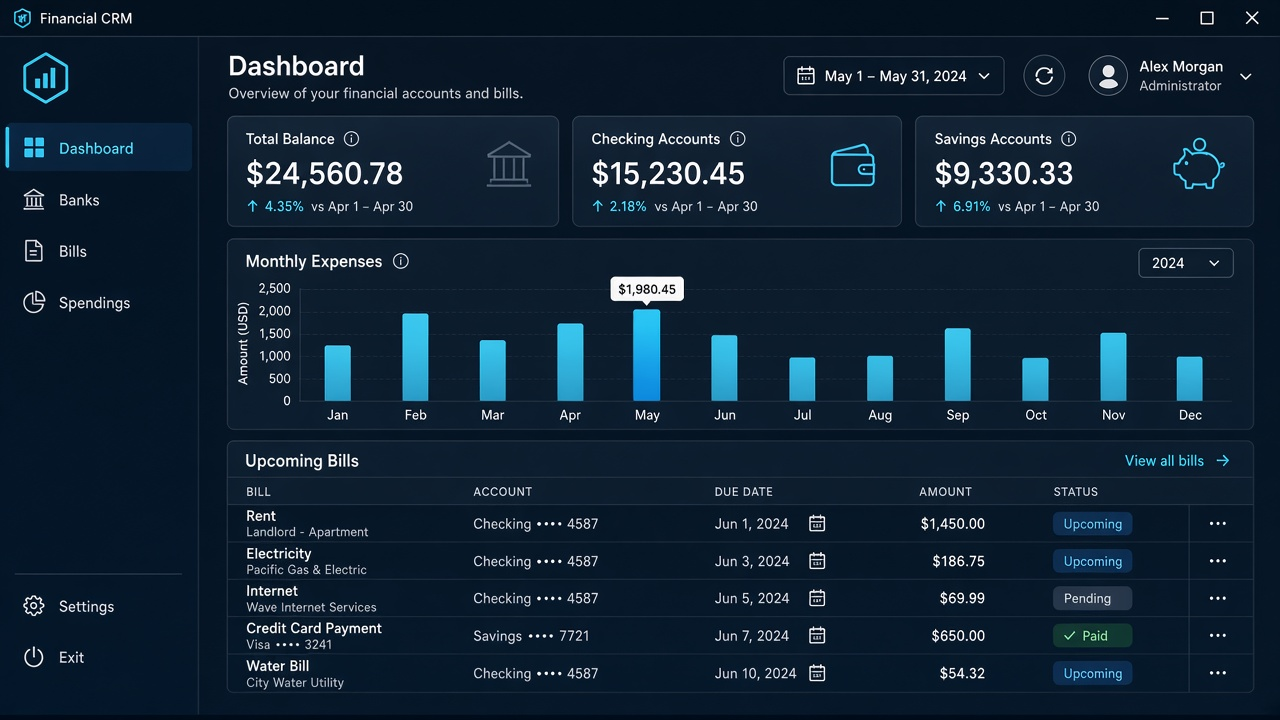
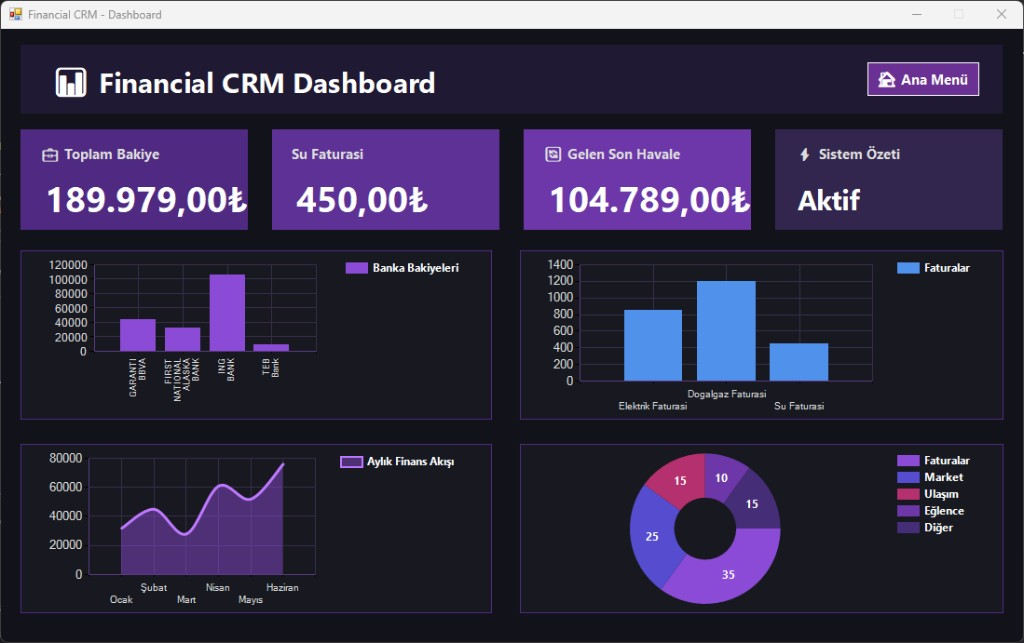
Add real project screenshots, smaller thumbnails with lightbox, and new project cards.

diff --git a/src/components/ProjectCard.tsx b/src/components/ProjectCard.tsx
@@ -1,4 +1,5 @@
-import { ExternalLink } from 'lucide-react'
+import { useEffect, useState } from 'react'
+import { ChevronLeft, ChevronRight, ExternalLink, X } from 'lucide-react'
 import type { Project } from '../data/projects'
 import { GitHubIcon } from './icons'
 
@@ -6,67 +7,148 @@ type ProjectCardProps = {
   project: Project
 }
 
-const categoryLabel: Record<Project['category'], string> = {
-  backend: 'Backend & SQL',
-  frontend: 'Frontend',
-  mobile: 'Mobile',
-}
-
 export function ProjectCard({ project }: ProjectCardProps) {
+  const [open, setOpen] = useState(false)
+  const [index, setIndex] = useState(0)
+  const cover = project.images[0]
+  const current = project.images[index] ?? cover
+
+  useEffect(() => {
+    if (!open) return
+    const onKey = (event: KeyboardEvent) => {
+      if (event.key === 'Escape') setOpen(false)
+      if (event.key === 'ArrowRight') {
+        setIndex((value) => (value + 1) % project.images.length)
+      }
+      if (event.key === 'ArrowLeft') {
+        setIndex((value) => (value - 1 + project.images.length) % project.images.length)
+      }
+    }
+    window.addEventListener('keydown', onKey)
+    document.body.style.overflow = 'hidden'
+    return () => {
+      window.removeEventListener('keydown', onKey)
+      document.body.style.overflow = ''
+    }
+  }, [open, project.images.length])
+
   return (
-    <article className="group flex h-full flex-col overflow-hidden rounded-2xl border border-white/10 bg-[#0c121c] transition duration-300 hover:-translate-y-1 hover:border-accent/35 hover:shadow-[0_24px_60px_-32px_rgba(34,211,238,0.55)]">
-      <div className="relative aspect-16/10 overflow-hidden bg-slate-900">
-        <img
-          src={project.image}
-          alt={`${project.title} screenshot`}
-          className="h-full w-full object-cover transition duration-500 group-hover:scale-[1.04]"
-        />
-        <div className="absolute inset-0 bg-linear-to-t from-[#0c121c] via-transparent to-transparent opacity-70" />
-        <span className="absolute top-3 left-3 rounded-full border border-white/10 bg-black/50 px-2.5 py-1 font-mono text-[10px] tracking-[0.14em] text-cyan-100 uppercase backdrop-blur-sm">
-          {categoryLabel[project.category]}
-        </span>
-      </div>
+    <>
+      <article className="flex h-full flex-col overflow-hidden rounded-xl border border-white/10 bg-[#0c121c]">
+        <button
+          type="button"
+          onClick={() => {
+            setIndex(0)
+            setOpen(true)
+          }}
+          className="relative h-24 w-full overflow-hidden bg-slate-900 sm:h-28"
+          aria-label={`Open ${project.title} screenshot`}
+        >
+          <img
+            src={cover}
+            alt=""
+            className="h-full w-full object-cover object-top"
+          />
+          <div className="absolute inset-0 bg-linear-to-t from-black/80 via-black/20 to-transparent" />
+          <div className="absolute inset-x-1.5 bottom-1.5 flex flex-wrap gap-1">
+            {project.stack.slice(0, 3).map((tech) => (
+              <span
+                key={tech}
+                className="rounded bg-black/70 px-1.5 py-0.5 font-mono text-[9px] text-cyan-100"
+              >
+                {tech}
+              </span>
+            ))}
+          </div>
+        </button>
 
-      <div className="flex flex-1 flex-col p-5">
-        <h3 className="text-lg font-medium text-white">{project.title}</h3>
-        <p className="mt-2 flex-1 text-sm leading-relaxed text-muted">{project.description}</p>
-
-        <div className="mt-4 flex flex-wrap gap-2">
-          {project.stack.map((tech) => (
-            <span
-              key={tech}
-              className="rounded-md border border-white/10 bg-white/4 px-2 py-1 font-mono text-[11px] text-slate-300"
-            >
-              {tech}
-            </span>
-          ))}
+        <div className="flex flex-1 flex-col p-3">
+          <h3 className="text-sm font-medium text-white">{project.title}</h3>
+          <p className="mt-1 line-clamp-2 text-xs leading-relaxed text-muted">{project.description}</p>
+          <div className="mt-3 flex flex-wrap gap-2">
+            {project.github ? (
+              <a
+                href={project.github}
+                target="_blank"
+                rel="noreferrer"
+                className="inline-flex items-center gap-1.5 rounded-full border border-white/12 px-2.5 py-1 text-[11px] text-slate-200 hover:bg-white/5"
+              >
+                <GitHubIcon size={12} />
+                GitHub
+              </a>
+            ) : null}
+            {project.liveDemo ? (
+              <a
+                href={project.liveDemo}
+                target="_blank"
+                rel="noreferrer"
+                className="inline-flex items-center gap-1.5 rounded-full border border-accent/30 px-2.5 py-1 text-[11px] text-accent"
+              >
+                <ExternalLink size={12} />
+                Demo
+              </a>
+            ) : null}
+          </div>
         </div>
+      </article>
 
-        <div className="mt-5 flex flex-wrap gap-3">
-          {project.github ? (
-            <a
-              href={project.github}
-              target="_blank"
-              rel="noreferrer"
-              className="inline-flex items-center gap-2 rounded-full border border-white/12 px-3.5 py-2 text-xs text-slate-200 transition hover:border-white/30 hover:bg-white/5"
+      {open ? (
+        <div
+          className="fixed inset-0 z-[80] flex items-center justify-center bg-black/80 p-4 backdrop-blur-sm"
+          onClick={() => setOpen(false)}
+          role="dialog"
+          aria-modal="true"
+          aria-label={project.title}
+        >
+          <div
+            className="relative w-full max-w-4xl overflow-hidden rounded-2xl border border-white/10 bg-[#0b1220]"
+            onClick={(event) => event.stopPropagation()}
+          >
+            <button
+              type="button"
+              onClick={() => setOpen(false)}
+              className="absolute top-3 right-3 z-10 rounded-full border border-white/15 bg-black/50 p-2 text-white"
+              aria-label="Close screenshot"
             >
-              <GitHubIcon size={14} />
-              GitHub Repo
-            </a>
-          ) : null}
-          {project.liveDemo ? (
-            <a
-              href={project.liveDemo}
-              target="_blank"
-              rel="noreferrer"
-              className="inline-flex items-center gap-2 rounded-full border border-accent/30 bg-accent/10 px-3.5 py-2 text-xs text-accent transition hover:bg-accent/20"
-            >
-              <ExternalLink size={14} />
-              Live Demo
-            </a>
-          ) : null}
+              <X size={16} />
+            </button>
+            <img src={current} alt={project.title} className="max-h-[72vh] w-full object-contain bg-black" />
+            {project.images.length > 1 ? (
+              <>
+                <button
+                  type="button"
+                  className="absolute top-1/2 left-3 -translate-y-1/2 rounded-full border border-white/15 bg-black/50 p-2 text-white"
+                  onClick={() =>
+                    setIndex((value) => (value - 1 + project.images.length) % project.images.length)
+                  }
+                  aria-label="Previous screenshot"
+                >
+                  <ChevronLeft size={18} />
+                </button>
+                <button
+                  type="button"
+                  className="absolute top-1/2 right-3 -translate-y-1/2 rounded-full border border-white/15 bg-black/50 p-2 text-white"
+                  onClick={() => setIndex((value) => (value + 1) % project.images.length)}
+                  aria-label="Next screenshot"
+                >
+                  <ChevronRight size={18} />
+                </button>
+              </>
+            ) : null}
+            <div className="flex flex-wrap items-center gap-2 border-t border-white/8 px-4 py-3">
+              <p className="mr-2 text-sm text-white">{project.title}</p>
+              {project.stack.map((tech) => (
+                <span
+                  key={tech}
+                  className="rounded-md border border-cyan-400/25 bg-cyan-400/10 px-2 py-0.5 font-mono text-[11px] text-cyan-100"
+                >
+                  {tech}
+                </span>
+              ))}
+            </div>
+          </div>
         </div>
-      </div>
-    </article>
+      ) : null}
+    </>
   )
 }

diff --git a/src/data/projects.ts b/src/data/projects.ts
@@ -12,7 +12,7 @@ export type Project = {
   stack: string[]
   github?: string
   liveDemo?: string
-  image: string
+  images: string[]
 }
 
 export const projectFilters: { id: ProjectFilter; label: string }[] = [
@@ -27,40 +27,83 @@ export const projects: Project[] = [
     id: 'financial-crm',
     title: 'Financial CRM',
     description:
-      'Finance CRM for bills, bank balances, and spending — ASP.NET MVC with Entity Framework and SQL Server.',
+      'Desktop CRM for bills, bank balances, and spending with dashboards and SQL-backed records.',
     category: 'backend',
-    stack: ['C#', '.NET', 'ASP.NET Core MVC', 'Entity Framework', 'SQL Server'],
+    stack: ['C#', '.NET', 'WinForms', 'Entity Framework', 'SQL Server'],
     github: 'https://github.com/rdmrcn/BANK-FINANCE-MANAGMENT-with-MVC-Proj',
-    image: '/projects/financial-crm.png',
+    images: ['/projects/financial-crm.png', '/projects/financial-crm-login.png'],
   },
   {
     id: 'novastore',
-    title: 'NovaStore SQL Database',
+    title: 'NovaStore SQL',
     description:
-      'E-commerce data model for products, customers, and orders, with relational design and reporting queries.',
+      'E-commerce SQL Server project with sales reporting, category analysis, and query-driven dashboards.',
     category: 'backend',
-    stack: ['SQL Server', 'T-SQL', 'Relational Design'],
+    stack: ['SQL Server', 'T-SQL', 'Excel'],
     github: 'https://github.com/rdmrcn/novastore-sql-database-project',
-    image: '/projects/novastore.png',
+    images: ['/projects/novastore.jpg'],
   },
   {
     id: 'taskflow',
-    title: 'Taskflow Daily',
+    title: 'TaskFlow',
     description:
-      'Internship React CRUD app: add, edit, complete, and filter tasks. Data stays in LocalStorage.',
+      'Internship React CRUD task manager with filters, progress, and LocalStorage persistence.',
     category: 'frontend',
     stack: ['React', 'JavaScript', 'Tailwind CSS', 'LocalStorage'],
     github: 'https://github.com/rdmrcn/taskflow-daily-application',
-    image: '/projects/taskflow.png',
+    images: ['/projects/taskflow.png'],
   },
   {
     id: 'coffee-hawai',
-    title: 'Coffee Hawai Catalog',
+    title: 'Coffee Hawai',
     description:
-      'Flutter mini catalog of Hawaii-inspired coffee drinks, built to run as a mobile-style web app.',
+      'Flutter coffee catalog with menu, cart, and order flow in a mobile-first layout.',
     category: 'mobile',
     stack: ['Flutter', 'Dart', 'JSON'],
     github: 'https://github.com/rdmrcn/coffee-hawai-web',
-    image: '/projects/coffee-hawai.png',
+    images: [
+      '/projects/coffee-hawai.png',
+      '/projects/coffee-hawai-menu.png',
+      '/projects/coffee-hawai-menu-2.png',
+      '/projects/coffee-hawai-cart.png',
+    ],
+  },
+  {
+    id: 'motor-legends',
+    title: 'Legendary Gears',
+    description:
+      'Motorcycle catalog web app with auth, catalog browsing, and a dark branded storefront.',
+    category: 'frontend',
+    stack: ['React', 'JavaScript', 'CSS'],
+    github: 'https://github.com/rdmrcn/Legendary-Gears---Web-Motorcycle-Shop',
+    images: ['/projects/motor-legends.png'],
+  },
+  {
+    id: 'weather',
+    title: 'Simple Weather App',
+    description: 'Lightweight weather client that fetches and displays current conditions.',
+    category: 'frontend',
+    stack: ['HTML', 'CSS', 'JavaScript'],
+    github: 'https://github.com/rdmrcn/Simple-Weather-App-',
+    images: ['/projects/weather.svg'],
+  },
+  {
+    id: 'flask-website',
+    title: 'Flask Website',
+    description:
+      'Beginner Flask site with routing, templates, and static files for learning web backends.',
+    category: 'backend',
+    stack: ['Python', 'Flask', 'HTML', 'CSS'],
+    github: 'https://github.com/rdmrcn/Flask-Website-Tutorial-Beginner-Level-',
+    images: ['/projects/flask-website.svg'],
+  },
+  {
+    id: 'match-blast',
+    title: 'Match Blast',
+    description: 'Mobile match-style puzzle game built in Unity.',
+    category: 'mobile',
+    stack: ['Unity', 'C#', 'Mobile'],
+    github: 'https://github.com/rdmrcn/Match-Game-Unity-Project',
+    images: ['/projects/match-blast.svg'],
   },
 ]

diff --git a/src/components/Projects.tsx b/src/components/Projects.tsx
@@ -51,7 +51,7 @@ export function Projects() {
           })}
         </div>
 
-        <div className="grid gap-5 sm:grid-cols-2 xl:grid-cols-3">
+        <div className="grid grid-cols-2 gap-3 lg:grid-cols-3 xl:grid-cols-4">
           {visibleProjects.map((project) => (
             <div
               key={`${filter}-${project.id}`}
